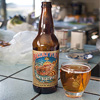
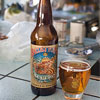
Added pictures to Breweries

diff --git a/breweries.html b/breweries.html
@@ -109,7 +109,7 @@
                               </p>
                             </div>
                             <div class="col-sm-3">
-                              <img src="images/dorado.jpg" class="img-circle" alt="..." />
+                              <img src="images/calico.jpg" class="img-circle" alt="..." />
                               <p class="rec-title">
                                 Calico Amber Ale
                               </p>
@@ -135,25 +135,25 @@
                       <div class="recommend">
                           <div class="row">
                             <div class="col-sm-3">
-                              <img data-src="holder.js/100x100" class="img-circle" alt="..." />
+                              <img src="images/imperial.jpg" class="img-circle" alt="..." />
                               <p class="rec-title">
                                 Imperial IPA
                               </p>
                             </div>
                             <div class="col-sm-3">
-                              <img data-src="holder.js/100x100" class="img-circle" alt="..." />
+                              <img src="images/palate.jpg" class="img-circle" alt="..." />
                               <p class="rec-title">
                                 Palate Wrecker
                               </p>
                             </div>
                             <div class="col-sm-3">
-                              <img data-src="holder.js/100x100" class="img-circle" alt="..." />
+                              <img src="images/west.jpg" class="img-circle" alt="..." />
                               <p class="rec-title">
                                 West Coast IPA
                               </p>
                             </div>
                             <div class="col-sm-3">
-                              <img data-src="holder.js/100x100" class="img-circle" alt="..." />
+                              <img src="images/freak.jpg" class="img-circle" alt="..." />
                               <p class="rec-title">
                                 Le Freak
                               </p>
@@ -179,25 +179,25 @@
                         <p>
                           <div class="row">
                             <div class="col-sm-3">
-                              <img data-src="holder.js/100x100" class="img-circle" alt="..." />
+                              <img src="images/barrel.jpg" class="img-circle" alt="..." />
                               <p class="rec-title">
                                 Big Barrel Double IPA
                               </p>
                             </div>
                             <div class="col-sm-3">
-                              <img data-src="holder.js/100x100" class="img-circle" alt="..." />
+                              <img src="images/wreck.jpg" class="img-circle" alt="..." />
                               <p class="rec-title">
                                 Wreck Alley Imperial Stout
                               </p>
                             </div>
                             <div class="col-sm-3">
-                              <img data-src="holder.js/100x100" class="img-circle" alt="..." />
+                              <img src="images/redtrolley.jpg" class="img-circle" alt="..." />
                               <p class="rec-title">
                                 Red Trolley Ale
                               </p>
                             </div>
                             <div class="col-sm-3">
-                              <img data-src="holder.js/100x100" class="img-circle" alt="..." />
+                              <img src="images/otr.jpg" class="img-circle" alt="..." />
                               <p class="rec-title">
                                 Off the Rails
                               </p>
@@ -224,25 +224,25 @@
                         <p>
                           <div class="row">
                             <div class="col-sm-3">
-                              <img data-src="holder.js/100x100" class="img-circle" alt="..." />
+                              <img src="images/smoked.jpg" class="img-circle" alt="..." />
                               <p class="rec-title">
                                 Smoked Porter
                               </p>
                             </div>
                             <div class="col-sm-3">
-                              <img data-src="holder.js/100x100" class="img-circle" alt="..." />
+                              <img src="images/ruin.jpg" class="img-circle" alt="..." />
                               <p class="rec-title">
                                 Ruination IPA
                               </p>
                             </div>
                             <div class="col-sm-3">
-                              <img data-src="holder.js/100x100" class="img-circle" alt="..." />
+                              <img src="images/stone.jpg" class="img-circle" alt="..." />
                               <p class="rec-title">
                                 Stone IPA
                               </p>
                             </div>
                             <div class="col-sm-3">
-                              <img data-src="holder.js/100x100" class="img-circle" alt="..." />
+                              <img src="images/arrogant.jpg" class="img-circle" alt="..." />
                               <p class="rec-title">
                                 Arrogant Bastard Ale
                               </p>

diff --git a/landing.html b/landing.html
@@ -83,9 +83,9 @@
                         </div>
                       </div>
                       <div class="item">
-                        <img src="images/carousel2.jpg" alt="Text"/>
-                      </div><div class="item">
                         <img src="images/carousel3.jpg" alt="Text"/>
+                      </div><div class="item">
+                        <img src="images/carousel2.jpg" alt="Text"/>
                         </div>
                     </div>
 
